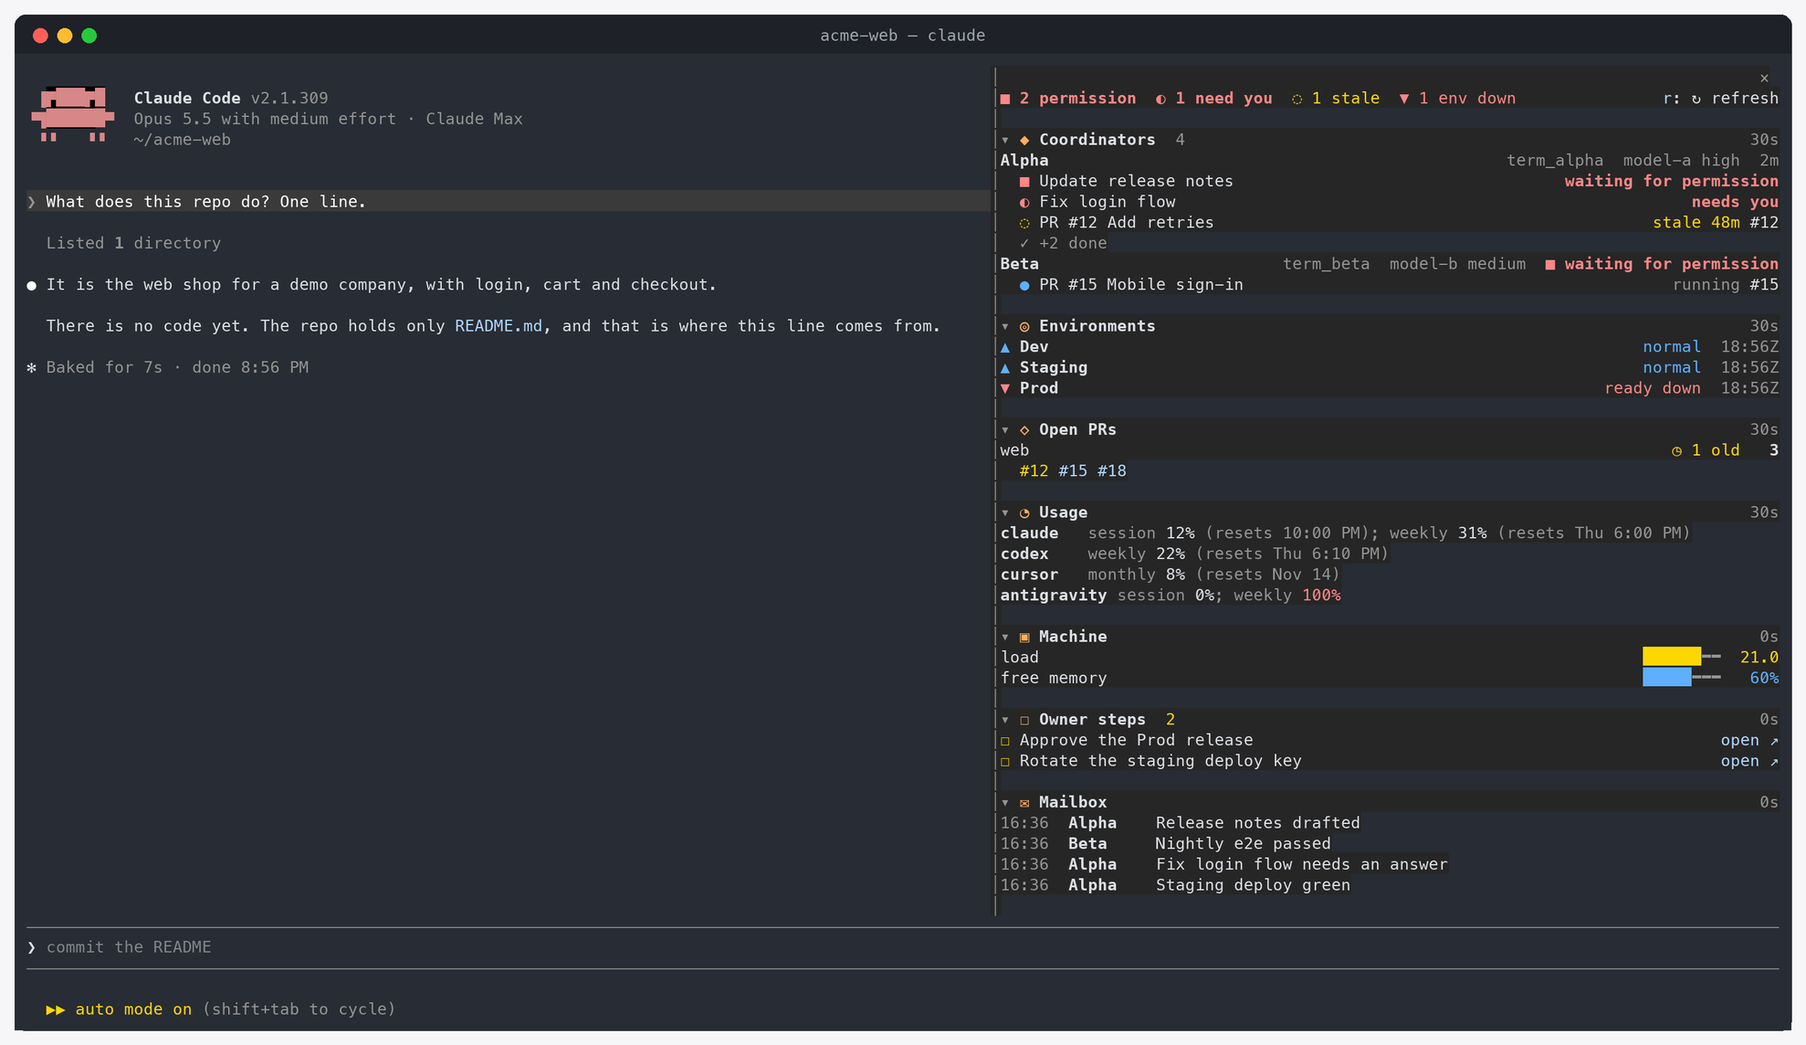
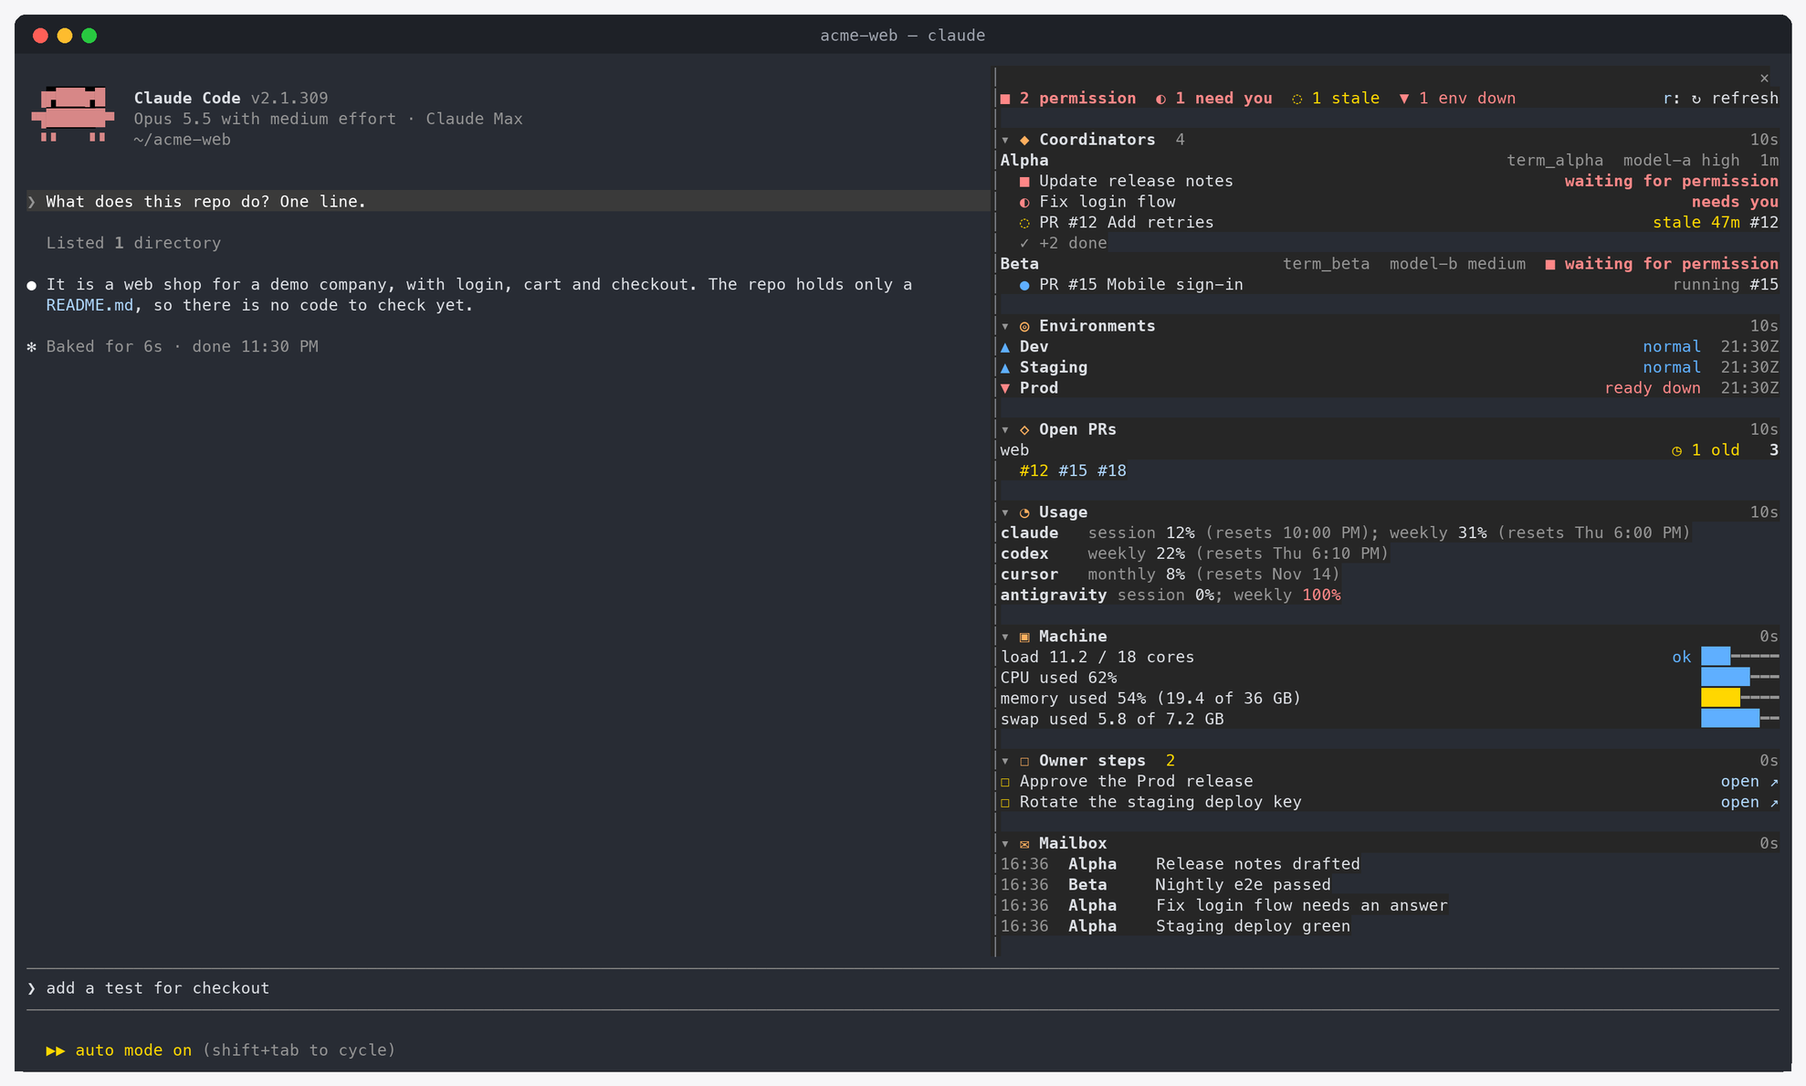
0.2.2: clear Machine section (load per core, CPU, used memory, swap) (#5)
* 0.2.2: clear Machine section with load per core, CPU, used memory and swap

- load 11.2 / 18 cores with ok, busy or overloaded
- CPU used percent over the last second (top, two samples)
- memory used percent with GB; the bar fills for used memory
- swap used of total GB from sysctl vm.swapusage
- one-line help on load and swap when pressed
- bars coloured by configurable limits (load 30, swap 8 GB, memory 60 percent)
- README screenshot with demo data

* Review fixes: new snapshot shape, word padding only with bars, README test count and CPU limit

diff --git a/tests/chief-engineer.test.tsx b/tests/chief-engineer.test.tsx
@@ -5,6 +5,8 @@ import {
   isPermissionPrompt,
   mask,
   mergeWorkers,
+  levelOf,
+  loadState,
   machineLevel,
   parseConfig,
   parseEnvStatus,
@@ -157,14 +159,35 @@ test('usage: keeps the named providers only', () => {
   expect(parseUsage(out, [])).toEqual(['antigravity: session 0%; weekly 100%', 'claude: session 27% (resets 10:49 PM); weekly 35% (resets Thu 5:59 PM)', 'gemini: error: not signed in'])
 })
 
-test('machine: parsed and coloured by the thresholds', () => {
-  const m = parseMachine('{ 4.87 6.35 5.55 }', 'System-wide memory free percentage: 48%')
-  expect(m).toEqual({ load: 4.87, freePercent: 48 })
-  expect(machineLevel(m)).toBe('success')
-  expect(machineLevel({ load: 25, freePercent: 48 })).toBe('warning')
-  expect(machineLevel({ load: 31, freePercent: 48 })).toBe('error')
-  expect(machineLevel({ load: 5, freePercent: 20 })).toBe('error')
-  expect(() => parseMachine('', '')).toThrow()
+const SYSCTL = '{ 11.20 10.73 9.45 }\ntotal = 7168.00M  used = 5939.20M  free = 1228.80M  (encrypted)\n18\n38654705664\n'
+const TOP = 'CPU usage: 48.63% user, 27.1% sys, 24.34% idle \nCPU usage: 29.82% user, 8.18% sys, 62.00% idle \n'
+const LIMITS = { load: 30, swapGB: 8, memoryPercent: 60 }
+
+test('machine: load with cores, CPU, used memory and swap', () => {
+  const m = parseMachine(SYSCTL, 'System-wide memory free percentage: 46%', TOP)
+  expect(m).toEqual({ load: 11.2, cores: 18, cpuPercent: 38, memoryPercent: 54, memoryGB: 36, swapUsedGB: 5.8, swapTotalGB: 7 })
+  expect(parseMachine(SYSCTL.replace('7168.00M', '2.50G'), 'free percentage: 46%', TOP).swapTotalGB).toBe(2.5)
+  expect(machineLevel(m, LIMITS)).toBe('warning')
+  expect(machineLevel({ ...m, memoryPercent: 40 }, LIMITS)).toBe('success')
+  for (const bad of [['', '', ''], [SYSCTL, '', TOP], [SYSCTL, 'free percentage: 46%', ''], ['{ 1.0 }\n\n\n', 'free percentage: 46%', TOP]]) {
+    expect(() => parseMachine(bad[0]!, bad[1]!, bad[2]!)).toThrow()
+  }
+})
+
+test('machine: load state by core count and limit; bars by their limits', () => {
+  const m = parseMachine(SYSCTL, 'free percentage: 46%', TOP)
+  expect(loadState(m, 30)).toEqual(['success', 'ok'])
+  expect(loadState({ ...m, load: 18 }, 30)).toEqual(['warning', 'busy'])
+  expect(loadState({ ...m, load: 30 }, 30)).toEqual(['warning', 'busy'])
+  expect(loadState({ ...m, load: 31 }, 30)).toEqual(['error', 'overloaded'])
+  expect(levelOf(5.8, 8)).toBe('success')
+  expect(levelOf(7, 8)).toBe('warning')
+  expect(levelOf(9, 8)).toBe('error')
+  expect(machineLevel({ ...m, swapUsedGB: 9 }, LIMITS)).toBe('error')
+  expect(machineLevel({ ...m, memoryPercent: 55 }, LIMITS)).toBe('warning')
+  expect(parseConfig('{}').limits).toEqual(LIMITS)
+  expect(parseConfig('{"limits":{"load":20}}').limits).toEqual({ ...LIMITS, load: 20 })
+  expect(() => parseConfig('{"limits":{"swapGB":"8"}}')).toThrow(/limits/)
 })
 
 test('owner steps: items with continuations, done ones hidden', () => {
@@ -212,7 +235,9 @@ function engine(on: any, opts: { failEnv?: boolean; isPlaced?: boolean; failOrca
         : a.startsWith('gh ')
           ? JSON.stringify([{ number: 42, createdAt: '2020-01-01T00:00:00Z' }])
           : a.includes('sysctl')
-            ? '{ 4.0 3.0 2.0 }'
+            ? SYSCTL
+            : a.startsWith('/usr/bin/top')
+            ? TOP
             : a.includes('memory_pressure')
               ? 'System-wide memory free percentage: 48%'
               : a.includes('tail')
@@ -236,7 +261,7 @@ test('the pane shows all seven panels from the config, on every surface', async 
 
   for (const surface of ['terminal', 'desktop'] as const) {
     const ui = await $.ui.mount({ ...PANE, surface })
-    for (const words of [/^Coordinators$/, /^◆ $/, /^Alpha$/, /term_alpha  model-x medium/, /◐ w-input/, /^needs you$/, /^stale \d+m$/, /^ #1234$/, /▲ Dev/, /^normal$/, /^web$/, /^#42$/, /◷ 1 old/, /claude\s+session 4%/, /4\.0/, /48%/, /☐ Approve the release/, /hello chief/, /1 need you/, /■ Side task in a worktree/, /^■ waiting for permission$/, /■ 2 permission/, /✓ \+1 done/]) {
+    for (const words of [/^Coordinators$/, /^◆ $/, /^Alpha$/, /term_alpha  model-x medium/, /◐ w-input/, /^needs you$/, /^stale \d+m$/, /^ #1234$/, /▲ Dev/, /^normal$/, /^web$/, /^#42$/, /◷ 1 old/, /claude\s+session 4%/, /^load 11\.2 \/ 18 cores$/, /^ {8}ok $/, /^CPU used 38%$/, /^memory used 52% \(18\.7 of 36 GB\)$/, /^swap used 5\.8 of 7\.0 GB$/, /☐ Approve the release/, /hello chief/, /1 need you/, /■ Side task in a worktree/, /^■ waiting for permission$/, /■ 2 permission/, /✓ \+1 done/]) {
       expect((await ui.find({ type: 'Text', text: words }))?.text).toMatch(words)
     }
     expect(await ui.find({ type: 'Text', text: /codex/ })).toBe(undefined)
@@ -244,7 +269,7 @@ test('the pane shows all seven panels from the config, on every surface', async 
     await ui.unmount()
   }
   // Read-only commands only.
-  for (const argv of runs) expect(['orca', 'gh', '/usr/sbin/sysctl', '/usr/bin/memory_pressure', '/usr/bin/tail', '/bin/usage']).toContain(argv[0])
+  for (const argv of runs) expect(['orca', 'gh', '/usr/sbin/sysctl', '/usr/bin/memory_pressure', '/usr/bin/top', '/usr/bin/tail', '/bin/usage']).toContain(argv[0])
   expect(runs.some(a => a.includes('--run') && a.includes('run_a'))).toBe(true)
   expect(runs.filter(a => a.includes('--screen')).map(a => a[4]).sort()).toEqual(['term_alpha', 'term_t1', 'term_w1', 'term_w2', 'term_w3'])
 })
@@ -270,6 +295,14 @@ test('a section header collapses and opens its section; PR numbers link to GitHu
   await ui.press({ key: 'expand-step-Approve the release https://x.test/3' })
   expect(await step()).toBe('truncate-end')
   expect(await ui.find({ type: 'Button', key: 'expand-worker-term_w1' })).toBeDefined()
+  // Load and swap explain themselves on a press, in one line each.
+  for (const [id, help] of [['load', /^load = programs running or waiting for a CPU; over the core count they wait, over 30 the Mac freezes and we stop new heavy work$/], ['swap', /^swap = memory moved to disk; over 8 GB the Mac slows down$/]] as const) {
+    expect(await ui.find({ type: 'Text', text: help })).toBe(undefined)
+    await ui.press({ key: `help-${id}` })
+    expect((await ui.find({ type: 'Text', text: help }))?.text).toMatch(help)
+    await ui.press({ key: `help-${id}` })
+    expect(await ui.find({ type: 'Text', text: help })).toBe(undefined)
+  }
   await ui.unmount()
 })
 
@@ -327,6 +360,6 @@ test('the band sums it up while the pane is closed', async ($, on) => {
   await $.session.start({ cwd: '/', surface: 'terminal', isInteractive: true })
   const band = await $.ui.mount({ plugin: 'chief-engineer', surface: 'terminal', component: 'AbovePrompt', props: { hasSurvey: false, isWorking: false, maxRows: 4, bodyColumns: 160 } } as any)
   const text = (await band.find({ type: 'Text', text: /◆ chief/ }))?.text ?? ''
-  expect(text).toMatch(/● 4 workers  ■ 2 permission  ◐ 1 need you  ◌ 1 stale  ▲ envs 1\/1  ◇ 1 PRs/)
+  expect(text).toMatch(/● 4 workers  ■ 2 permission  ◐ 1 need you  ◌ 1 stale  ▲ envs 1\/1  ◇ 1 PRs  ▣ load 11\/18 mem 52% swap 5\.8G/)
   await band.unmount()
 })

diff --git a/hooks/register.tsx b/hooks/register.tsx
@@ -14,6 +14,8 @@ import {
   ORDER,
   coordinatorRow,
   envRow,
+  levelOf,
+  loadState,
   machineLevel,
   parseConfig,
   parseEnvStatus,
@@ -30,7 +32,7 @@ import {
 const PANE = 'chief-engineer'
 const TITLE = 'Chief engineer'
 const LOCAL_MS = 10_000
-const snapshot = atom({ plugin: 'chief-engineer', key: 'snapshot' } as const, {} as Snapshot, { shape: 'snapshot-1' })
+const snapshot = atom({ plugin: 'chief-engineer', key: 'snapshot' } as const, {} as Snapshot, { shape: 'snapshot-2' })
 const isPaneOpen = atom({ plugin: 'chief-engineer', key: 'isPaneOpen' } as const, false)
 const collapsed = atom({ plugin: 'chief-engineer', key: 'collapsed' } as const, [] as string[])
 const expanded = atom({ plugin: 'chief-engineer', key: 'expanded' } as const, [] as string[])
@@ -122,7 +124,15 @@ async function readRemote($: $, c: Config) {
 async function readLocal($: $, c: Config) {
   const names = new Map(c.coordinators.filter(x => x.terminal).map(x => [x.terminal!, x.name]))
   await Promise.all([
-    refresh($, 'machine', async () => parseMachine(await run($, ['/usr/sbin/sysctl', '-n', 'vm.loadavg']), await run($, ['/usr/bin/memory_pressure']))),
+    refresh($, 'machine', async () => {
+      const [sysctl, pressure, top] = await Promise.all([
+        run($, ['/usr/sbin/sysctl', '-n', 'vm.loadavg', 'vm.swapusage', 'hw.ncpu', 'hw.memsize']),
+        run($, ['/usr/bin/memory_pressure']),
+        // Two one-second samples: the first is an average since boot.
+        run($, ['/usr/bin/top', '-l', '2', '-n', '0', '-s', '1']),
+      ])
+      return parseMachine(sysctl, pressure, top)
+    }),
     c.ownerSteps ? refresh($, 'steps', async () => parseSteps(await $.fs.read(c.ownerSteps))) : undefined,
     c.mailbox ? refresh($, 'mail', async () => parseMail(await run($, ['/usr/bin/tail', '-n', '5', c.mailbox]), names)) : undefined,
   ])
@@ -372,11 +382,33 @@ export const register: Register = (on, options) => {
           : ''}
         {section('machine', '▣', 'Machine', s.machine, () => {
           if (!m) return <Text dimColor>no reading yet</Text>
-          const loadLevel = m.load > 30 ? 'error' : m.load < 20 ? 'success' : 'warning'
-          const freeLevel = m.freePercent < 25 ? 'error' : m.freePercent > 40 ? 'success' : 'warning'
+          const lim = cfg.limits
+          const [loadLevel, loadWord] = loadState(m, lim.load)
+          const memoryLevel = levelOf(m.memoryPercent, lim.memoryPercent)
+          const swapLevel = levelOf(m.swapUsedGB, lim.swapGB)
+          const cpuLevel = levelOf(m.cpuPercent, 90)
+          // A press on a row with help shows one line on what the number means.
+          const line = (id: string, label: string, frac: number, color: string, word?: string, help?: string) => {
+            const isOpen = full.includes(id)
+            const label_ = <Text tabular wrap="truncate-end">{label}</Text>
+            // With bars, the word column is as wide as 'overloaded' on every row, so the bars line up.
+            const body = row(
+              help ? <Button key={`help-${id}`} plain onPress={() => update($, expanded, list => (isOpen ? list.filter(x => x !== id) : [...list, id]))}>{label_}</Button> : label_,
+              <Text tabular><Text color={color}>{isWide ? `${(word ?? '').padStart(10)} ` : word ? `${word} ` : ''}</Text>{isWide ? meter(frac, color) : ''}</Text>,
+            )
+            if (!isOpen) return body
+            return (
+              <Box flexDirection="column">
+                {body}
+                {row(<Text dimColor wrap="wrap">{help}</Text>, undefined, 2)}
+              </Box>
+            )
+          }
           return [
-            row(<Text>load</Text>, <Text tabular>{isWide ? meter(m.load / 30, loadLevel) : ''} <Text color={loadLevel}>{m.load.toFixed(1).padStart(5)}</Text></Text>),
-            row(<Text>free memory</Text>, <Text tabular>{isWide ? meter(m.freePercent / 100, freeLevel) : ''} <Text color={freeLevel}>{`${m.freePercent}%`.padStart(5)}</Text></Text>),
+            line('load', `load ${m.load.toFixed(1)} / ${m.cores} cores`, m.load / lim.load, loadLevel, loadWord, `load = programs running or waiting for a CPU; over the core count they wait, over ${lim.load} the Mac freezes and we stop new heavy work`),
+            line('cpu', `CPU used ${m.cpuPercent}%`, m.cpuPercent / 100, cpuLevel),
+            line('memory', `memory used ${m.memoryPercent}% (${(m.memoryGB * m.memoryPercent / 100).toFixed(1)} of ${Math.round(m.memoryGB)} GB)`, m.memoryPercent / 100, memoryLevel),
+            line('swap', `swap used ${m.swapUsedGB.toFixed(1)} of ${m.swapTotalGB.toFixed(1)} GB`, m.swapUsedGB / lim.swapGB, swapLevel, undefined, `swap = memory moved to disk; over ${lim.swapGB} GB the Mac slows down`),
           ]
         })}
         {cfg.ownerSteps
@@ -433,7 +465,7 @@ export const register: Register = (on, options) => {
         {stale ? <Text color="warning">◌ {stale} stale  </Text> : ''}
         <Text color={down ? 'error' : 'success'}>{down ? '▼' : '▲'} envs {envs.length - down}/{envs.length}  </Text>
         <Text>◇ {prs} PRs  </Text>
-        {m ? <Text color={machineLevel(m)}>▣ load {m.load.toFixed(0)} free {m.freePercent}%  </Text> : ''}
+        {m ? <Text color={machineLevel(m, s.config.value.limits)}>▣ load {m.load.toFixed(0)}/{m.cores} mem {m.memoryPercent}% swap {m.swapUsedGB.toFixed(1)}G  </Text> : ''}
         {steps ? <Text color="warning">☐ {steps} steps  </Text> : ''}
         <Text dimColor>/chief</Text>
       </Text>

diff --git a/hooks/readers.ts b/hooks/readers.ts
@@ -1,6 +1,6 @@
 // Pure parsers: each takes what a command or file gave and returns rows to draw.
 // No I/O here, so every reader is tested with plain strings.
-import type { Config, CoordinatorRow, EnvRow, Machine, MailRow, RepoRow, WorkerRow } from '../types'
+import type { Config, CoordinatorRow, EnvRow, Limits, Machine, MailRow, RepoRow, WorkerRow } from '../types'
 
 const DEFAULTS: Config = {
   pollSeconds: 60,
@@ -18,6 +18,7 @@ const DEFAULTS: Config = {
   usageProviders: [],
   mailbox: '',
   ownerSteps: '',
+  limits: { load: 30, swapGB: 8, memoryPercent: 60 },
 }
 
 // Phone-like numbers never reach the pane: `+` and 9+ digits, or 9+ digits in a row.
@@ -43,6 +44,8 @@ export function parseConfig(text: string): Config {
   // Remote reads stay cheap: never poll faster than 30 s.
   c.pollSeconds = Math.max(30, Number(c.pollSeconds) || DEFAULTS.pollSeconds)
   c.staleMinutes = Math.max(1, Number(c.staleMinutes) || DEFAULTS.staleMinutes)
+  c.limits = { ...DEFAULTS.limits, ...(raw.limits as object) }
+  if (!Object.values(c.limits).every(v => typeof v === 'number' && v > 0)) throw new Error('limits must be positive numbers')
   return c
 }
 
@@ -171,18 +174,42 @@ export function parseUsage(stdout: string, providers: string[]): string[] {
   })
 }
 
-export function parseMachine(loadavg: string, pressure: string): Machine {
-  const load = Number(loadavg.match(/[\d.]+/)?.[0])
-  const freePercent = Number(pressure.match(/free percentage:\s*(\d+)/i)?.[1])
-  if (!Number.isFinite(load) || !Number.isFinite(freePercent)) throw new Error('machine stats not readable')
-  return { load, freePercent }
+// `sysctl -n vm.loadavg vm.swapusage hw.ncpu hw.memsize` prints one line per name, in that order.
+export function parseMachine(sysctl: string, pressure: string, top: string): Machine {
+  const [loadavg = '', swap = '', ncpu = '', memsize = ''] = sysctl.split('\n')
+  const gb = (key: string) => {
+    const m = swap.match(new RegExp(`${key} = ([\\d.]+)([MG])`))
+    return m ? Number(m[1]) / (m[2] === 'M' ? 1024 : 1) : NaN
+  }
+  const free = Number(pressure.match(/free percentage:\s*(\d+)/i)?.[1])
+  // top's first sample counts since boot; the last one is the live second.
+  const idle = Number([...top.matchAll(/([\d.]+)% idle/g)].pop()?.[1])
+  const m: Machine = {
+    load: Number(loadavg.match(/[\d.]+/)?.[0]),
+    cores: Number(ncpu),
+    cpuPercent: Math.round(100 - idle),
+    memoryPercent: 100 - free,
+    memoryGB: Number(memsize) / 2 ** 30,
+    swapUsedGB: gb('used'),
+    swapTotalGB: gb('total'),
+  }
+  if (!Object.values(m).every(Number.isFinite) || !m.cores || !m.memoryGB) throw new Error('machine stats not readable')
+  return m
 }
 
-// Heavy jobs only under load 20 and over 40 % free; pause above 30 or under 25 % free.
-export function machineLevel(m: Machine): 'success' | 'warning' | 'error' {
-  if (m.load > 30 || m.freePercent < 25) return 'error'
-  if (m.load < 20 && m.freePercent > 40) return 'success'
-  return 'warning'
+export type Level = 'success' | 'warning' | 'error'
+// Red over the limit, yellow from 80 % of it.
+export const levelOf = (value: number, limit: number): Level => (value > limit ? 'error' : value > limit * 0.8 ? 'warning' : 'success')
+
+// Under the core count every program gets a CPU; up to the limit they wait; over it the Mac freezes.
+export function loadState(m: Machine, limit: number): [Level, string] {
+  return m.load > limit ? ['error', 'overloaded'] : m.load >= m.cores ? ['warning', 'busy'] : ['success', 'ok']
+}
+
+const RANK = { success: 0, warning: 1, error: 2 }
+export function machineLevel(m: Machine, limits: Limits): Level {
+  const all = [loadState(m, limits.load)[0], levelOf(m.memoryPercent, limits.memoryPercent), levelOf(m.swapUsedGB, limits.swapGB)]
+  return all.reduce((a, b) => (RANK[b] > RANK[a] ? b : a))
 }
 
 // Each `- ` item is a step; indented lines below it continue it; `- [x]` is done.

diff --git a/types/index.d.ts b/types/index.d.ts
@@ -23,7 +23,11 @@ export type Config = {
   usageProviders: string[]
   mailbox: string
   ownerSteps: string
+  limits: Limits
 }
+
+// A bar turns red over its limit; load over `load` reads overloaded.
+export type Limits = { load: number; swapGB: number; memoryPercent: number }
 
 export type WorkerState = 'permission' | 'running' | 'input' | 'stale' | 'done' | 'failed'
 
@@ -49,7 +53,7 @@ export type CoordinatorRow = {
 
 export type EnvRow = { name: string; ready: string; state: string; checkedAt: number }
 export type RepoRow = { repo: string; prs: { number: number; isOld: boolean }[] }
-export type Machine = { load: number; freePercent: number }
+export type Machine = { load: number; cores: number; cpuPercent: number; memoryPercent: number; memoryGB: number; swapUsedGB: number; swapTotalGB: number }
 export type MailRow = { at: string; from: string; subject: string }
 
 // One section's last good value, when it was read, and the last error since.

diff --git a/README.md b/README.md
@@ -44,7 +44,7 @@ While the pane is closed, a one-line band above the prompt sums up what needs yo
   service, no paid API calls, no API key.
 - **It never shows secrets.** No message bodies, terminal output or environment
   variables; phone-like numbers are masked.
-- **Tested.** 21 tests run in CI with `claude plugin test`; the status list below
+- **Tested.** 22 tests run in CI with `claude plugin test`; the status list below
   says what is done and what is not.
 
 ## Install details
@@ -78,8 +78,17 @@ To run it from a checkout instead: `claude --plugin-dir /path/to/chief-engineer`
 4. **Usage**: the key percentages (`session 12%`, `weekly 31%`) of your usage
    command for the providers you name, with known reset times; other detail is
    dropped.
-5. **Machine**: load average and free memory percent. Green under load 20 with
-   over 40 % free, red above load 30 or under 25 % free, yellow between.
+5. **Machine**: four lines.
+   - `load 11.2 / 18 cores ok`: programs running or waiting for a CPU. `ok` under
+     the core count, `busy` from the core count to `limits.load` (30), `overloaded`
+     over it. Over the core count programs wait; over 30 the Mac freezes, so stop
+     new heavy work.
+   - `CPU used 62%`: all cores together, over the last second.
+   - `memory used 54% (19.4 of 36 GB)`: the bar fills for used memory.
+   - `swap used 5.8 of 7.2 GB`: memory moved to disk. Over 8 GB the Mac slows down.
+
+   Load and swap rows show this help in one line when you press them. A bar is
+   yellow from 80 % of its limit and red over it (`limits` in the config). The CPU bar uses a fixed limit of 90 %.
 6. **Owner steps**: every open `- ` item of a Markdown file you maintain; `- [x]`
    items are hidden.
 7. **Mailbox**: the last 5 messages of an append-only JSONL file (time, sender,
@@ -117,10 +126,11 @@ columns (handles, models, times, meters) drop out.
 | `usageProviders` | `[]` | Providers to keep from that output; empty keeps every line. |
 | `mailbox` | `""` | Path (`~/` allowed, as for `ownerSteps`) of a JSONL file with `{ at, from, subject }` per line. `from` values that match a coordinator's `terminal` show its name. |
 | `ownerSteps` | `""` | Path of the Markdown file of open owner steps. |
+| `limits` | `{ "load": 30, "swapGB": 8, "memoryPercent": 60 }` | Machine limits. Load over `load` is overloaded; swap and memory bars turn red over theirs. Set only the ones you change. |
 
 ## Rules it keeps
 
-- Read-only commands only: `orca ... list`, `orca terminal read --screen`, `gh pr list`, `sysctl`, `memory_pressure`,
+- Read-only commands only: `orca ... list`, `orca terminal read --screen`, `gh pr list`, `sysctl`, `memory_pressure`, `top -l 2 -n 0`,
   `tail`, your usage command, and HTTP GETs.
 - No paid API calls and no hosted service.
 - It never shows message bodies, terminal output or environment variables.
@@ -130,7 +140,7 @@ columns (handles, models, times, meters) drop out.
 
 ## Status
 
-Implemented and covered by `claude plugin test` (21 tests):
+Implemented and covered by `claude plugin test` (22 tests):
 
 - Config parsing, defaults and validation; one assert-based test per data reader
   (workers, terminal workers, worker merge, permission dialogs, environments, PRs,
@@ -148,7 +158,7 @@ Implemented and covered by `claude plugin test` (21 tests):
 Pending:
 
 - Coordinator context percent: not shown; no cheap read-only source yet.
-- Machine readings use macOS tools (`sysctl vm.loadavg`, `memory_pressure`); Linux
+- Machine readings use macOS tools (`sysctl`, `memory_pressure`, `top`); Linux
   is not supported yet.
 - Done is not split from failed for workers that leave the dispatched list.
 - Sections cut long lines to the pane width; the pane scrolls with the arrows while it has the keyboard.

diff --git a/CHANGELOG.md b/CHANGELOG.md
@@ -1,5 +1,9 @@
 # Changelog
 
+## 0.2.2
+
+- Machine section: `load 11.2 / 18 cores` with `ok`, `busy` or `overloaded`; `CPU used 62%`; `memory used 54% (19.4 of 36 GB)` with the bar filling for used; `swap used 5.8 of 7.2 GB`. Pressing load or swap shows one line on what it means. Bars are coloured by `limits` (load 30, swap 8 GB, memory 60 %).
+
 ## 0.2.1
 
 - A worker name shows once with its newest state; done workers fold into one `+N done` line.
